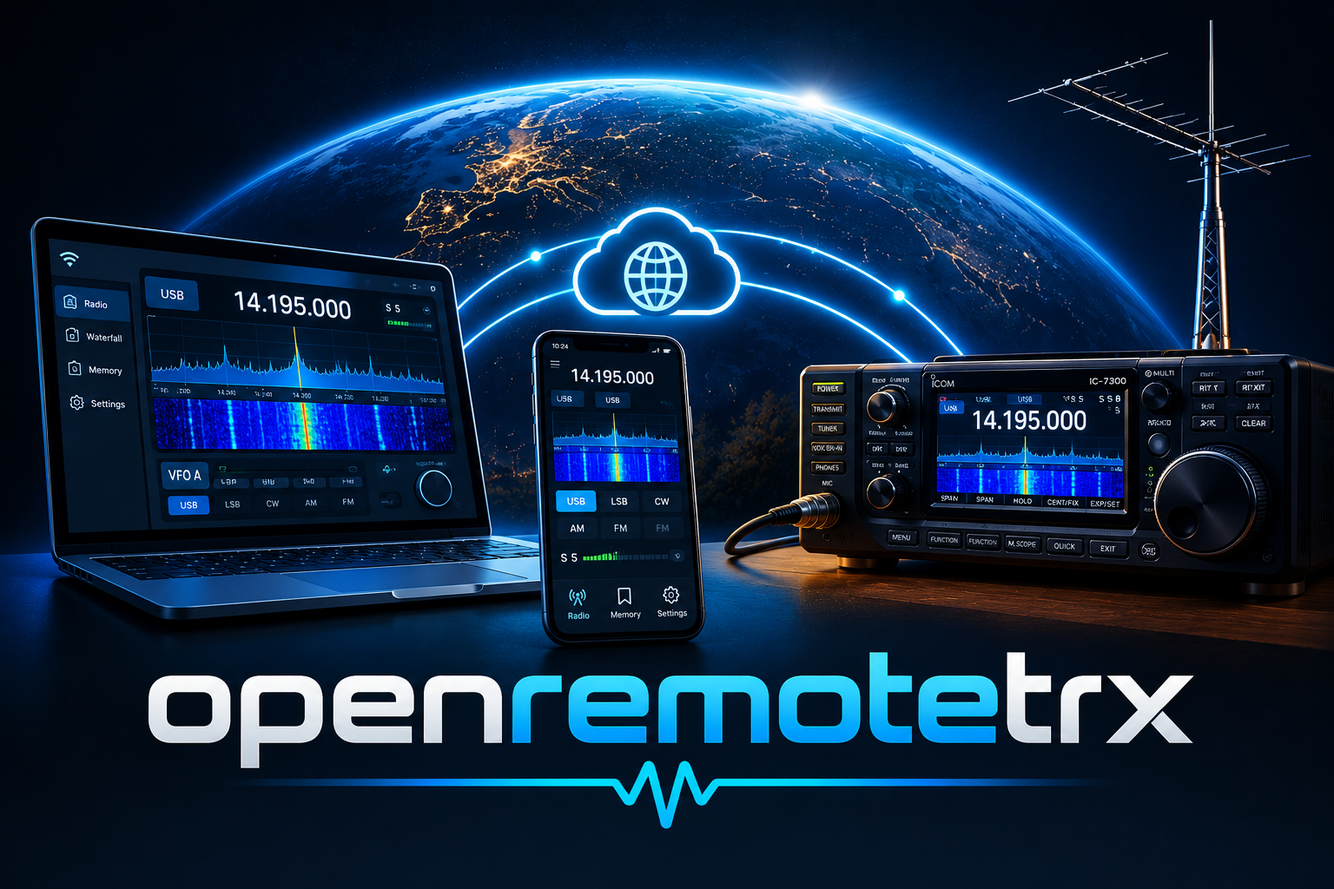
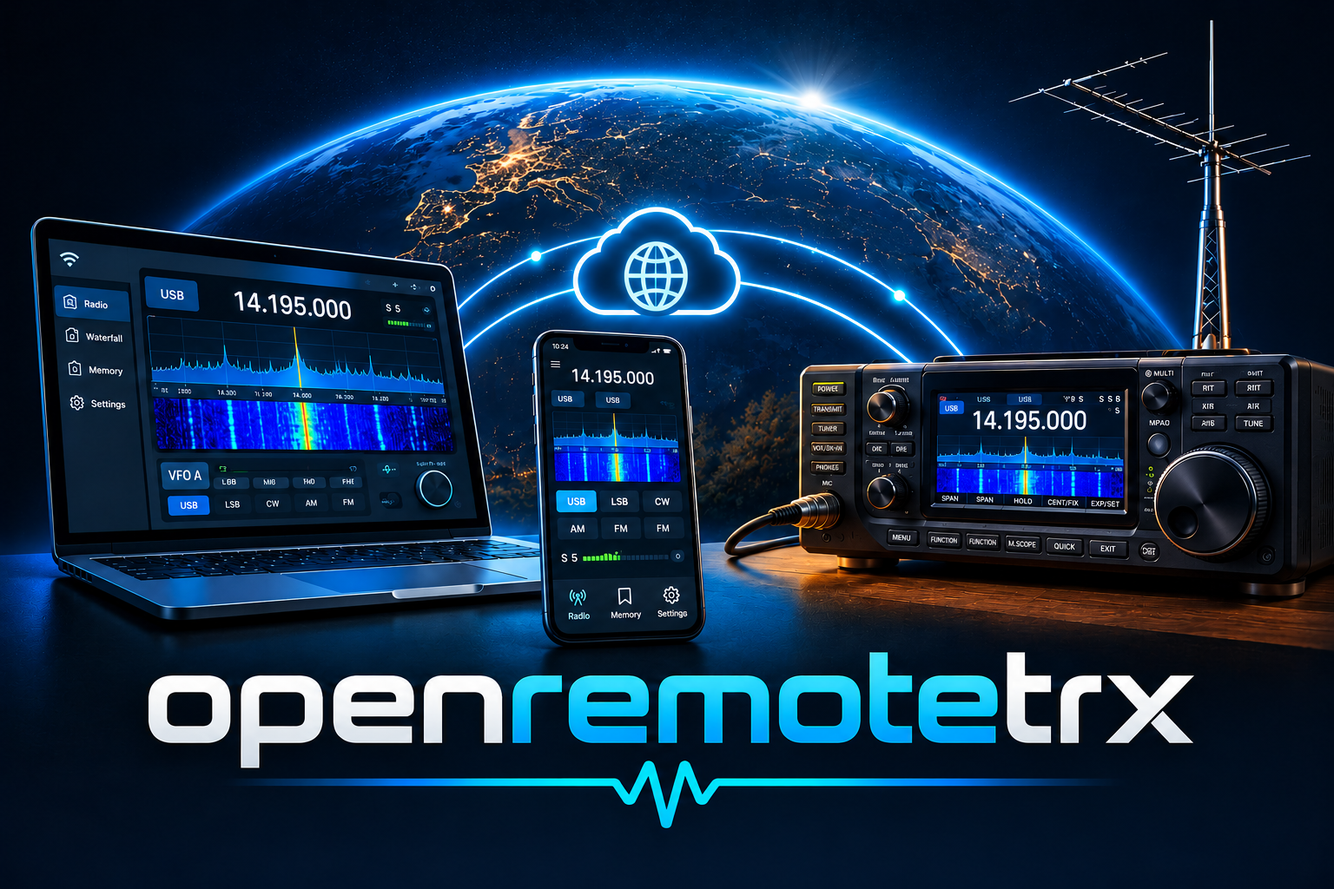
Station 0.88.0 et application 0.37.0 : image d'accueil sans marque fournie par l'utilisateur, page et ouverture de l'application (étape 106)

diff --git a/docs/site/console/0.88.0/index.html b/docs/site/console/0.88.0/index.html
@@ -1,0 +1,167 @@
+<!doctype html>
+<!-- SPDX-License-Identifier: AGPL-3.0-or-later -->
+<!-- Copyright (C) 2026 RF-DIY.COM -->
+<!-- Fabriqué par scripts/build_console_doc.py à partir de docs/console/contenu.toml : ne pas modifier à la main. -->
+<html lang="fr">
+<head>
+<meta charset="utf-8">
+<meta name="viewport" content="width=device-width, initial-scale=1">
+<title>TRX Console : mode d&#x27;emploi (0.88.0)</title>
+<style>:root{--fond:#0f141c;--carte:#171e29;--ligne:#2a3445;--texte:#dbe3ee;--doux:#9aa8bb;--accent:#4c9be8;--emission:#e0524a;
+  --ok:#3fae72;--code:#0b1017;color-scheme:dark}
+*{box-sizing:border-box}
+html{background:var(--fond)}
+body{margin:0;background:var(--fond);color:var(--texte);font:16px/1.6 system-ui,-apple-system,"Segoe UI",Roboto,sans-serif}
+main{max-width:56rem;margin:0 auto;padding:1.2rem 16px 2.5rem}
+h1{font-size:1.7rem;line-height:1.2;margin:.4rem 0 .2rem}
+h2{font-size:1.3rem;margin:2.2rem 0 .7rem;padding-bottom:.3rem;border-bottom:1px solid var(--ligne)}
+h3{font-size:1.05rem;margin:0}
+p{margin:.45rem 0 .8rem}
+a{color:var(--accent)}
+code{background:var(--code);border:1px solid var(--ligne);border-radius:.3rem;padding:0 .3rem;font-size:.92em;
+  overflow-wrap:anywhere}
+pre{background:var(--code);border:1px solid var(--ligne);border-radius:.5rem;padding:.6rem .8rem;overflow-x:auto;
+  font-size:.9rem;white-space:pre-wrap;overflow-wrap:anywhere}
+ul,ol{margin:.3rem 0 .9rem 1.3rem;padding:0}
+li{margin:.2rem 0}
+.version{color:var(--doux);font-size:.95rem;margin:0 0 1rem}
+.lecture{background:var(--carte);border:1px solid var(--ligne);border-left:.3rem solid var(--accent);border-radius:.5rem;
+  padding:.5rem 1rem;margin:1rem 0}
+.sommaire{display:flex;flex-wrap:wrap;gap:.5rem;margin:1rem 0 0;padding:0;list-style:none}
+.sommaire a{display:inline-block;background:var(--carte);border:1px solid var(--ligne);border-radius:2rem;
+  padding:.25rem .9rem;text-decoration:none;color:var(--texte)}
+.etapes{list-style:none;margin:0;padding:0;counter-reset:e}
+.etapes>li{counter-increment:e;display:grid;grid-template-columns:2.2rem 1fr;gap:.8rem;background:var(--carte);
+  border:1px solid var(--ligne);border-radius:.6rem;padding:.8rem 1rem;margin:.7rem 0}
+.etapes>li::before{content:counter(e);width:2rem;height:2rem;border-radius:50%;background:var(--accent);color:#fff;
+  font-weight:700;display:flex;align-items:center;justify-content:center}
+.etapes>li>div{min-width:0}
+details{background:var(--carte);border:1px solid var(--ligne);border-radius:.6rem;margin:.55rem 0}
+summary{cursor:pointer;padding:.65rem 1rem;display:flex;gap:.7rem;align-items:baseline;list-style:none}
+summary::-webkit-details-marker{display:none}
+summary::before{content:"\25B8";color:var(--doux);transition:transform .15s}
+details[open]>summary::before{transform:rotate(90deg)}
+.num{flex:none;min-width:2.1rem;text-align:center;font-weight:700;color:#fff;background:var(--accent);border-radius:.4rem;
+  padding:0 .3rem}
+.corps{padding:0 1rem .8rem 1rem}
+dl{display:grid;grid-template-columns:minmax(7rem,max-content) 1fr;gap:.35rem 1rem;margin:.2rem 0 .6rem}
+dt{color:var(--doux)}
+dd{margin:0;min-width:0}
+.sudo{color:var(--emission);font-weight:600}
+.libre{color:var(--ok);font-weight:600}
+.expert{border-top:1px dashed var(--ligne);margin-top:.5rem;padding-top:.4rem}
+.expert::before{content:"Pour aller plus loin";display:block;color:var(--doux);font-size:.85rem;text-transform:uppercase;
+  letter-spacing:.04em}
+.bloc{background:var(--carte);border:1px solid var(--ligne);border-radius:.6rem;padding:.6rem 1rem;margin:.7rem 0}
+footer{margin-top:2.5rem;color:var(--doux);font-size:.9rem;border-top:1px solid var(--ligne);padding-top:.8rem}
+@media (max-width:30rem){dl{grid-template-columns:1fr}dt{margin-top:.3rem}}</style>
+</head>
+<body>
+<main>
+<h1>TRX Console : mode d&#x27;emploi</h1>
+<p class="version">TRX distant version 0.88.0</p>
+<p><strong>TRX Console</strong> est le tableau de commande de la station TRX distant, sur le PC (ou le Raspberry Pi)
+relié au poste. Elle sert à installer et configurer la station, la démarrer, l'essayer, la mettre à jour et la
+dépanner. Elle s'ouvre depuis le menu des applications (« TRX Console ») ou en tapant <code>trx-console</code>
+dans un terminal.</p>
+<p><strong>Un doute sur un menu ?</strong> Tape <code>h</code> puis son numéro (ou directement <code>h 19</code>) :
+la console affiche, sans rien lancer, à quoi sert ce menu, quand s'en servir et ce qu'il modifie (les textes de cette page).</p>
+<p>Elle n'émet jamais d'elle-même : les seuls menus qui peuvent faire passer le poste en émission sont l'essai
+complet (menu 4, avec confirmation à chaque étape) et, bien sûr, la station une fois démarrée, pilotée depuis la page web.</p>
+<div class="lecture"><p><strong>Premier déploiement ?</strong> Suis le parcours ci-dessous dans l'ordre. <strong>Station déjà en
+service ?</strong> Va directement à la référence des menus. <strong>Tu aides à déboguer ?</strong> Voir la partie
+« Dépannage avancé ».</p></div>
+<ul class="sommaire"><li><a href="#premier-deploiement">Premier déploiement</a></li><li><a href="#menus">Les menus</a></li><li><a href="#depannage">Dépannage avancé</a></li></ul>
+<h2 id="premier-deploiement">Premier déploiement, pas à pas</h2>
+<ol class="etapes">
+<li><div><h3>Installer le logiciel</h3><p>Sur un PC Debian 12 ou 13 avec bureau : décompresse le paquet <code>trx-remote-debian-X.Y.Z.zip</code> dans
+Téléchargements, ouvre un terminal dans le dossier obtenu et tape :</p>
+<pre>sudo bash install.sh</pre>
+<p>Ton mot de passe de session est demandé (rien ne s'affiche pendant la frappe : c'est normal). À la fin,
+<strong>déconnecte-toi puis reconnecte-toi</strong> pour que les droits soient pris en compte.</p>
+<p>Tu viens d'une station Windows ? Pose son fichier <code>station.toml</code> à côté de <code>install.sh</code>
+avant de lancer l'installation : comptes, bandes et alertes seront repris.</p></div></li>
+<li><div><h3>Configurer la station (menu 2)</h3><p>Au premier lancement, TRX Console propose l'assistant. Il demande, dans l'ordre : le modèle du poste (liste
+Hamlib), le port série du CAT, la méthode de PTT, les cartes son (réception et émission), les bandes autorisées
+à l'émission, l'accès réseau et le premier compte (identifiant et mot de passe pour la page web).</p>
+<p>Le poste est interrogé <strong>en lecture seule</strong> pendant l'assistant : aucune émission. Rien n'est
+enregistré si tu abandonnes en cours de route.</p></div></li>
+<li><div><h3>Vérifier (menu 1)</h3><p>Le diagnostic passe tout en revue sans rien modifier. Chaque ligne est <strong>OK</strong>, à
+<strong>surveiller</strong> ou en <strong>échec</strong>, avec la marche à suivre. Corrige les échecs avant
+d'aller plus loin (menu 14 pour retoucher la configuration, ou relance l'assistant).</p></div></li>
+<li><div><h3>Essayer le poste (menu 4)</h3><p>Avant tout, la carte son du poste ne doit <strong>pas</strong> être le son par défaut du PC : sous Debian,
+<em>Paramètres &gt; Son</em>, choisis en sortie les haut-parleurs du PC et en entrée son micro (sous Windows,
+<em>Paramètres &gt; Système &gt; Son</em>). Sinon le bureau occupe la carte et ses sons partent vers le poste.</p>
+<p>Commence par l'essai <strong>en réception seule</strong> (choix 1) : liaison CAT, son reçu, changement de
+fréquence et de mode, largeurs de filtre, spectre. Ensuite seulement, l'essai <strong>complet</strong> (choix 2)
+vérifie l'émission : <strong>charge fictive obligatoire</strong>, puissance réduite, confirmation demandée à
+chaque étape. La station est arrêtée pendant l'essai.</p></div></li>
+<li><div><h3>Démarrer (menu 5) et se connecter</h3><p>Le menu 5 démarre la station ; refais un diagnostic (menu 1) quelques secondes plus tard. Sur le téléphone
+ou un autre PC du même réseau, ouvre <code>https://&lt;adresse-de-la-station&gt;:8443</code> et connecte-toi avec
+le compte créé par l'assistant. Pour l'accès depuis l'extérieur, voir la documentation « Accès distant » du projet.</p></div></li>
+</ol>
+<h2 id="menus">Les menus de la console</h2>
+<p>Tape le numéro du menu puis Entrée ; <code>q</code> pour quitter. Les réponses aux questions (oui, non, OUI, EMETTRE...) ne tiennent compte ni des majuscules ni des accents. <span class="sudo">Mot de passe</span> : le menu demande ton mot de passe de session (sudo).</p>
+<details id="menu-1"><summary><span class="num">1</span><h3>Diagnostic complet</h3></summary><div class="corps"><dl><dt>À quoi il sert</dt><dd>Contrôle complet de la station, en lecture seule : système, logiciels, configuration, matériel (ports série, cartes son), services, spectre HF, Cluster DX, accès réseau et mises à jour.</dd><dt>Quand</dt><dd>Après l'installation, après chaque changement, et en premier réflexe dès que quelque chose ne va pas.</dd><dt>Ce qu'il modifie</dt><dd>Rien. Aucune commande au poste, aucune émission.</dd><dt>Droits</dt><dd><span class="libre">non</span></dd></dl><div class="expert"><p>Même résultat sans le menu : <code>trx-console --diagnostic</code> (code de sortie différent de 0 en cas d'échec, utilisable dans un script).</p></div></div></details>
+<details id="menu-2"><summary><span class="num">2</span><h3>Assistant de configuration</h3></summary><div class="corps"><dl><dt>À quoi il sert</dt><dd>Assistant de configuration : poste, ports, PTT, cartes son, bandes autorisées, accès réseau, comptes. Écrit <code>station.toml</code>.</dd><dt>Quand</dt><dd>Au premier déploiement, ou pour tout reprendre (changement de poste, d'interface audio, de PC).</dd><dt>Ce qu'il modifie</dt><dd><code>station.toml</code> (seulement si tu vas au bout). La station est arrêtée pendant l'assistant puis redémarrée à la demande.</dd><dt>Droits</dt><dd><span class="sudo">mot de passe de session demandé</span></dd></dl><div class="expert"><p>Le poste n'est interrogé qu'en lecture. Une configuration importée d'une ancienne station (<code>station.import.toml</code>) sert de point de départ.</p></div></div></details>
+<details id="menu-3"><summary><span class="num">3</span><h3>Tableau de bord (fréquence, émission, services)</h3></summary><div class="corps"><dl><dt>À quoi il sert</dt><dd>Tableau de bord en direct, dans le terminal : fréquence, mode, émission ou réception, clients connectés, services, matériel, audio, journal.</dd><dt>Quand</dt><dd>Pour surveiller la station sur place, ou pendant un essai.</dd><dt>Ce qu'il modifie</dt><dd>Rien, sauf une touche : <strong>STOP TX</strong> force la réception. Le tableau de bord ne peut jamais faire émettre.</dd><dt>Droits</dt><dd><span class="libre">non</span></dd></dl></div></details>
+<details id="menu-4"><summary><span class="num">4</span><h3>Essai du poste (CAT, audio, PTT)</h3></summary><div class="corps"><dl><dt>À quoi il sert</dt><dd>Essai guidé du vrai poste. Choix 1 : réception seule (CAT, son reçu, accord, largeurs de filtre, écran du spectre). Choix 2 : la même chose puis l'émission.</dd><dt>Quand</dt><dd>Après l'assistant, après un changement de câble ou d'interface audio, ou pour qualifier un nouveau poste.</dd><dt>Ce qu'il modifie</dt><dd>Rien dans la configuration. Le choix 2 fait émettre le poste : charge fictive, puissance réduite, confirmation (taper <code>EMETTRE</code>) à chaque étape. La station est arrêtée pendant l'essai.</dd><dt>Droits</dt><dd><span class="sudo">mot de passe de session demandé</span></dd></dl><div class="expert"><p>Le résumé final de l'essai s'affiche à l'écran : copie-le dans ta demande d'aide. Les réponses tapées ne tiennent compte ni des majuscules ni des accents (« emettre », « Émettre » et « EMETTRE » sont acceptés).</p></div></div></details>
+<details id="menu-5"><summary><span class="num">5</span><h3>Démarrer ou redémarrer la station</h3></summary><div class="corps"><dl><dt>À quoi il sert</dt><dd>Démarre (ou redémarre) la station : rigctld, passerelle, superviseur.</dd><dt>Quand</dt><dd>Après la configuration, après une modification, ou si la page web ne répond plus.</dd><dt>Ce qu'il modifie</dt><dd>L'état des services. Le poste est toujours remis en réception au démarrage.</dd><dt>Droits</dt><dd><span class="sudo">mot de passe de session demandé</span></dd></dl></div></details>
+<details id="menu-6"><summary><span class="num">6</span><h3>Arrêter la station</h3></summary><div class="corps"><dl><dt>À quoi il sert</dt><dd>Arrête la station.</dd><dt>Quand</dt><dd>Avant de brancher ou débrancher le poste ou l'interface audio, ou pour utiliser un autre logiciel sur le poste.</dd><dt>Ce qu'il modifie</dt><dd>L'état des services. Le poste reste en réception.</dd><dt>Droits</dt><dd><span class="sudo">mot de passe de session demandé</span></dd></dl></div></details>
+<details id="menu-7"><summary><span class="num">7</span><h3>Journal de la station</h3></summary><div class="corps"><dl><dt>À quoi il sert</dt><dd>Affiche les 80 dernières lignes du journal des services de la station.</dd><dt>Quand</dt><dd>Quand le diagnostic signale un service en échec, ou pour comprendre une coupure d'émission.</dd><dt>Ce qu'il modifie</dt><dd>Rien.</dd><dt>Droits</dt><dd><span class="sudo">mot de passe de session demandé</span></dd></dl><div class="expert"><p>Journal complet : <code>journalctl -u trx-gateway -u trx-supervisor -u rigctld --since "1 hour ago"</code>.</p></div></div></details>
+<details id="menu-8"><summary><span class="num">8</span><h3>Rapport de dépannage (zip sur le Bureau)</h3></summary><div class="corps"><dl><dt>À quoi il sert</dt><dd>Crée un rapport de dépannage (fichier zip sur le Bureau) : diagnostic, journaux, configuration <strong>sans aucun mot de passe</strong>, versions, matériel détecté, rapports envoyés depuis la page, identifiant de la station.</dd><dt>Quand</dt><dd>Pour demander de l'aide : joins ce zip à ta demande.</dd><dt>Ce qu'il modifie</dt><dd>Rien (un fichier est créé sur le Bureau).</dd><dt>Droits</dt><dd><span class="libre">non</span></dd></dl><div class="expert"><p>Sans le menu : <code>trx-console --rapport</code>. Le fichier <code>station.toml</code> du rapport a ses secrets masqués ; vérifie quand même son contenu avant de l'envoyer si tu le souhaites.</p></div></div></details>
+<details id="menu-9"><summary><span class="num">9</span><h3>Sortir du mode sûr</h3></summary><div class="corps"><dl><dt>À quoi il sert</dt><dd>Sort du <strong>mode sûr</strong>. Le superviseur y place la station après des pannes répétées : poste en réception, accès coupé.</dd><dt>Quand</dt><dd>Seulement après avoir trouvé et corrigé la cause (menus 1 et 7).</dd><dt>Ce qu'il modifie</dt><dd>Efface le mode sûr mémorisé et redémarre la station.</dd><dt>Droits</dt><dd><span class="sudo">mot de passe de session demandé</span></dd></dl><div class="expert"><p>Le mode sûr survit aux redémarrages et aux corrections : il faut le lever explicitement ici.</p></div></div></details>
+<details id="menu-10"><summary><span class="num">10</span><h3>Mise à jour de TRX distant</h3></summary><div class="corps"><dl><dt>À quoi il sert</dt><dd>Mise à jour par Internet : présente la nouvelle version, propose de voir la nature des changements (notes de CHAQUE version publiée depuis la tienne, la plus récente d'abord, par pages : Entrée = suite, q = arrêter là), puis l'installe après vérification de sa signature. À jour : propose une nouvelle recherche immédiate sur GitHub.</dd><dt>Quand</dt><dd>Quand un cadre « NOUVELLE VERSION … DISPONIBLE » apparaît en haut de la console (jaune dans un terminal) et que le menu 10 est marqué « <== NOUVELLE VERSION ». La recherche a lieu 2 minutes après le démarrage de la station puis toutes les 24 h.</dd><dt>Ce qu'il modifie</dt><dd>Installe la nouvelle version à côté de l'ancienne (gardée pour le menu 11). <code>station.toml</code> et les certificats sont conservés. Refusé tant que le poste émet. Il faut taper le numéro de version pour confirmer.</dd><dt>Droits</dt><dd><span class="sudo">mot de passe de session demandé</span></dd></dl></div></details>
+<details id="menu-11"><summary><span class="num">11</span><h3>Revenir à la version précédente</h3></summary><div class="corps"><dl><dt>À quoi il sert</dt><dd>Revient à la version précédente, gardée lors de la dernière mise à jour, sans Internet.</dd><dt>Quand</dt><dd>Si la nouvelle version pose problème.</dd><dt>Ce qu'il modifie</dt><dd>La version active. La configuration est conservée.</dd><dt>Droits</dt><dd><span class="sudo">mot de passe de session demandé</span></dd></dl></div></details>
+<details id="menu-12"><summary><span class="num">12</span><h3>Cluster DX (spots suivis, sources, test)</h3></summary><div class="corps"><dl><dt>À quoi il sert</dt><dd>Réglages du Cluster DX : spots suivis, sources (RBN, serveurs telnet, web), filtres, essai des sources.</dd><dt>Quand</dt><dd>Pour afficher les spots sur le spectre et les pastilles des boutons de bande dans la page.</dd><dt>Ce qu'il modifie</dt><dd>La section Cluster de <code>station.toml</code> ; redémarrage proposé ensuite.</dd><dt>Droits</dt><dd><span class="sudo">mot de passe de session demandé</span></dd></dl></div></details>
+<details id="menu-13"><summary><span class="num">13</span><h3>Installer une version depuis un fichier zip (Bureau, Téléchargements)</h3></summary><div class="corps"><dl><dt>À quoi il sert</dt><dd>Installe une version à partir d'un fichier <code>trx-remote-debian-X.Y.Z.zip</code> déposé sur le Bureau, dans Téléchargements ou dans le dossier personnel.</dd><dt>Quand</dt><dd>Station sans Internet, version d'essai, ou retour à une version précise.</dd><dt>Ce qu'il modifie</dt><dd>Comme le menu 10 : nouvelle version à côté de l'ancienne, configuration conservée. Un paquet non signé demande de taper <code>OUI</code> puis le numéro de version.</dd><dt>Droits</dt><dd><span class="sudo">mot de passe de session demandé</span></dd></dl><div class="expert"><p>Déposer le zip ne suffit pas : il faut l'installer ici. Compte-rendu : <code>/var/log/trx-remote-install.log</code>.</p></div></div></details>
+<details id="menu-14"><summary><span class="num">14</span><h3>Modifier la configuration (station.toml)</h3></summary><div class="corps"><dl><dt>À quoi il sert</dt><dd>Modifie <code>station.toml</code> dans l'éditeur nano, sur une copie.</dd><dt>Quand</dt><dd>Pour un réglage précis sans relancer tout l'assistant.</dd><dt>Ce qu'il modifie</dt><dd><code>station.toml</code>, seulement si la copie est valide : elle est vérifiée, les différences sont montrées, une confirmation est demandée et l'ancienne version est gardée à côté. Une configuration invalide n'est jamais écrite.</dd><dt>Droits</dt><dd><span class="sudo">mot de passe de session demandé</span></dd></dl><div class="expert"><p>Dans nano : Ctrl+O puis Entrée pour enregistrer, Ctrl+X pour quitter. Les copies de sauvegarde s'appellent <code>station.toml.avant-modification-AAAAMMJJ-HHMMSS</code>.</p></div></div></details>
+<details id="menu-15"><summary><span class="num">15</span><h3>Menu expert (tests automatiques du logiciel)</h3></summary><div class="corps"><dl><dt>À quoi il sert</dt><dd>Menu expert : lance toute la suite de tests automatiques du logiciel sur la station.</dd><dt>Quand</dt><dd>Pour aider au débogage, ou vérifier qu'une installation est saine.</dd><dt>Ce qu'il modifie</dt><dd>Rien. Les tests utilisent un poste <strong>simulé</strong> : aucune commande au vrai poste, aucune émission. La station est arrêtée pendant les tests (7 à 10 minutes sur un PC récent, 30 minutes ou plus sur un petit PC) puis relancée à la demande.</dd><dt>Droits</dt><dd><span class="sudo">mot de passe de session demandé</span></dd></dl><div class="expert"><p>Le résultat est enregistré sur le Bureau (<code>trx-remote-tests-AAAAMMJJ-HHMM.txt</code>) : transmets ce fichier si des tests échouent. L'outil de test (pytest) est installé au premier usage (Internet nécessaire).</p><p>Les points s'affichent au fur et à mesure ; sans rien de nouveau pendant une minute, la console rappelle que les tests continuent. Un test vraiment bloqué 10 minutes affiche la pile de ses fils d'exécution : c'est ce qu'il faut transmettre (Ctrl+C arrête les tests).</p></div></div></details>
+<details id="menu-16"><summary><span class="num">16</span><h3>Seuils de température du poste (avertissement, coupure)</h3></summary><div class="corps"><dl><dt>À quoi il sert</dt><dd>Seuils de température du poste : premier seuil (avertissement dans la page et notification), second seuil (émission à distance coupée et refusée jusqu'au retour sous le premier seuil). 40 et 50 °C par défaut.</dd><dt>Quand</dt><dd>Si ton poste chauffe en usage normal (modes numériques en continu, par exemple) ou pour plus de prudence.</dd><dt>Ce qu'il modifie</dt><dd>Les clés <code>rig_temp_warn_c</code> et <code>rig_temp_cut_c</code> de <code>station.toml</code>, par le même chemin vérifié que le menu 14.</dd><dt>Droits</dt><dd><span class="sudo">mot de passe de session demandé</span></dd></dl><div class="expert"><p>Sans effet si le poste ne donne pas sa température par Hamlib (cas de l'IC-7300MK2). L'opérateur au micro du poste n'est jamais coupé pour ce motif.</p></div></div></details>
+<details id="menu-17"><summary><span class="num">17</span><h3>Indicateur dans la barre du haut (GNOME : état de la station en permanence)</h3></summary><div class="corps"><dl><dt>À quoi il sert</dt><dd>Active ou désactive l'<strong>indicateur de la barre du haut</strong> (bureau GNOME) : un voyant à gauche du son (vert réception, rouge émission, orange alerte, gris station arrêtée, violet mode sûr), la fréquence ou le compte à rebours d'émission, et au clic l'état complet : émission, fréquence et filtre, clients web connectés, liaison avec le poste, opérateur sur place, dernière coupure, température, alimentation, spectre HF, Cluster DX, mise à jour disponible, version et identifiant.</dd><dt>Quand</dt><dd>Une fois, après l'installation (puis une déconnexion et reconnexion), pour garder un œil sur la station en permanence.</dd><dt>Ce qu'il modifie</dt><dd>Seulement l'affichage de ton bureau. L'indicateur ne fait que LIRE l'état publié par la station : il ne peut rien commander.</dd><dt>Droits</dt><dd><span class="libre">non</span></dd></dl><div class="expert"><p>Fichiers lus chaque seconde : <code>/run/trx-remote/gateway-status.json</code>, et dans <code>/var/lib/trx-remote/</code> : <code>safe_mode</code>, <code>cluster/status.json</code>, <code>update/latest.json</code>, <code>station-id</code>. Extension installée dans <code>/usr/share/gnome-shell/extensions/trx-distant@rf-diy.com</code>. Le menu de l'indicateur ouvre aussi la page web, TRX Console et le tableau de bord.</p></div></div></details>
+<details id="menu-18"><summary><span class="num">18</span><h3>Profils de poste (plusieurs TRX : enregistrer, charger, supprimer)</h3></summary><div class="corps"><dl><dt>À quoi il sert</dt><dd>Profils de poste, pour qui pilote plusieurs TRX tour à tour : <strong>enregistrer</strong> la configuration du poste en service sous un nom (« IC-7300 maison »), la <strong>recharger</strong> plus tard, ou supprimer un profil. Le profil en service est signalé dans la liste.</dd><dt>Quand</dt><dd>Après avoir configuré et essayé un poste (menus 2 et 4) : enregistre-le. Pour changer de poste : branche-le, charge son profil, la station redémarre avec lui.</dd><dt>Ce qu'il modifie</dt><dd>Charger un profil ne change que les réglages du POSTE dans <code>station.toml</code> (modèle, ports, PTT, cartes son, spectre), par le même chemin vérifié que le menu 14 (différences montrées, confirmation, ancienne version gardée). Comptes, réseau, bandes autorisées et sécurités ne bougent jamais. Refusé pendant une émission.</dd><dt>Droits</dt><dd><span class="sudo">mot de passe de session demandé</span></dd></dl><div class="expert"><p>Fichiers : <code>/etc/trx-remote/profils/&lt;nom&gt;.toml</code>. Chaque profil porte un numéro de format. Un profil d'une ancienne version est converti au chargement quand c'est possible (une clé manquante prend sa valeur par défaut) ; sinon, ou s'il vient d'une version plus récente, il est refusé avec la marche à suivre : refaire la configuration de ce poste (menu 2) puis l'enregistrer de nouveau. Le fichier d'origine n'est jamais modifié au chargement.</p></div></div></details>
+<details id="menu-19"><summary><span class="num">19</span><h3>Appairer un téléphone (application Android : adresse, empreinte, QR code)</h3></summary><div class="corps"><dl><dt>À quoi il sert</dt><dd>Affiche ce qu'il faut pour <strong>appairer l'application Android</strong> avec cette station : l'adresse à saisir, les comptes autorisés, l'<strong>empreinte du certificat</strong> (SHA-256, sur deux lignes), puis un <strong>QR code</strong> à scanner avec l'application (« Scanner le QR code de la station ») : il remplit l'adresse, l'identifiant et l'empreinte. S'il y a plusieurs adresses ou plusieurs comptes, la console demande lesquels mettre dans le QR code (Entrée = choix proposé). Ni le QR code ni l'écran ne contiennent de mot de passe : la station ne les connaît pas en clair, il se saisit dans l'application.</dd><dt>Quand</dt><dd>Au moment d'ajouter la station dans l'application Android, et après avoir refait le certificat (menu 2).</dd><dt>Ce qu'il modifie</dt><dd>Rien : lecture seule.</dd><dt>Droits</dt><dd><span class="libre">non</span></dd></dl><div class="expert"><p>Même affichage en ligne de commande : <code>trx-setup --output /etc/trx-remote/station.toml --empreinte</code>. Si le certificat n'est lisible que par la station, la console le relit avec les droits d'administration. Station limitée à cette machine (boucle locale) : aucun téléphone ne peut s'y connecter, la console le dit. Derrière un proxy HTTPS, l'empreinte à épingler est celle du certificat du proxy (pas de QR code). Le QR code est dessiné pour un terminal à fond sombre ; l'application lit aussi un terminal clair. S'il n'apparaît pas (paquet « segno » absent), réinstaller la station (menu 13) ou saisir l'empreinte à la main.</p></div></div></details>
+<details id="menu-20"><summary><span class="num">20</span><h3>Visiteurs en réception seule (comptes, nombre maximal, connectés)</h3></summary><div class="corps"><dl><dt>À quoi il sert</dt><dd>Gère les <strong>visiteurs en réception seule</strong> : des comptes qui écoutent la station et voient l'écran de l'opérateur, sans <strong>aucune</strong> commande vers le poste (ni fréquence, ni mode, ni émission, ni STOP). On y règle le <strong>nombre maximal</strong> de visiteurs (0 = écoute fermée sur la station ; sinon, c'est l'opérateur qui ouvre ou ferme l'écoute depuis sa page ou l'application, commutateur « Écoute des visiteurs », fermé par défaut), le commutateur <strong>« opérateur requis »</strong> (visiteurs admis seulement si un opérateur est connecté, et déconnectés après une attente réglable, 60 s par défaut, s'il perd la liaison), l'écoute <strong>hors des bandes</strong> de la station (coupée par défaut : silence) et la cadence du spectre HF des visiteurs (5 images par seconde par défaut). On y crée, modifie (pseudo, mot de passe, activé, date de fin) et supprime les comptes visiteurs, on choisit le <strong>pseudo</strong> des comptes opérateurs, on <strong>déconnecte</strong> un visiteur connecté, et on <strong>rouvre l'écoute</strong> suspendue par une surcharge.</dd><dt>Quand</dt><dd>Avant une démonstration en radio-club, une formation ou l'écoute partagée d'un QSO ; pour retirer l'accès à un visiteur (désactiver ou supprimer son compte).</dd><dt>Ce qu'il modifie</dt><dd>Les comptes et la section <code>[access]</code> de <code>station.toml</code>, par le même chemin vérifié que le menu 14 (différences montrées, confirmation, ancienne version gardée ; le fichier est réécrit dans sa forme standard). La station les relit d'elle-même en quelques secondes, <strong>sans redémarrer</strong> : un compte désactivé, expiré ou supprimé est déconnecté aussitôt. « Déconnecter » ne touche pas à <code>station.toml</code>.</dd><dt>Droits</dt><dd><span class="sudo">mot de passe de session demandé</span></dd></dl><div class="expert"><p>Les autres connectés ne voient jamais l'identifiant d'un compte, seulement son <strong>pseudo</strong> (plusieurs comptes peuvent porter le même) ; seul un opérateur voit identifiants et adresses. Pendant une émission, les visiteurs entendent la voix de l'opérateur (ce qui part vers le poste) ; le code SELCALL ne leur est jamais montré. Un visiteur ne peut envoyer que deux commandes (relire l'état, afficher ou non le spectre HF) : tout le reste est refusé par la station, et au-delà de 20 refus en une minute sa connexion est fermée avec une alerte. Les visiteurs ont leur propre quota : ils ne prennent jamais la place d'un opérateur. Si la station souffre (processeur à 85 °C, chargé à 90 %, passerelle en retard de plus de 100 ms ou mémoire presque pleine, pendant 10 s), les visiteurs sont déconnectés avec la cause précise ; l'écoute se rouvre d'elle-même après 5 minutes nettement en dessous, ou à la main (choix 7) après 3 coupures en une heure. Seuils : <code>[access] overload_*</code> (menu 14). Retransmettre ce que l'on reçoit à des tiers engage la responsabilité de l'opérateur : voir le guide d'accès distant. Détail : <code>docs/visiteurs-cahier-des-charges.md</code>.</p></div></div></details>
+<h2 id="depannage">Dépannage avancé</h2>
+<div class="bloc" id="en-t-te-de-la-console"><h3>En-tête de la console</h3><p>La première ligne donne la <strong>version installée</strong>, la deuxième l'état (en marche, arrêtée, pas
+encore configurée). Une fois la station configurée viennent l'<strong>adresse</strong> où la joindre depuis la
+page web ou l'application (adresses IP de la machine et port ; « cette machine seulement » si elle n'écoute qu'en
+local), puis l'<strong>état du poste</strong> : tension d'alimentation et température, telles que la station les
+lit (« — » : valeur que le poste ne fournit pas ; l'IC-7300MK2, par exemple, ne donne pas sa température ;
+« mesures indisponibles » : station arrêtée). La dernière ligne donne l'<strong>identifiant de la station</strong> :
+un code unique créé au premier démarrage, qui permet de rapprocher plusieurs rapports d'une même station. Il n'est
+envoyé nulle part automatiquement.</p></div>
+<div class="bloc" id="fichiers-utiles-debian"><h3>Fichiers utiles (Debian)</h3><ul>
+<li><code>/etc/trx-remote/station.toml</code> : configuration (modifier par le menu 14).</li>
+<li><code>/var/lib/trx-remote/</code> : état de la station (mode sûr, mémoires, rapports de la page, identifiant <code>station-id</code>, Cluster DX).</li>
+<li><code>/run/trx-remote/gateway-status.json</code> : état en direct publié par la passerelle (lu par le tableau de bord).</li>
+<li><code>/opt/trx-remote/releases/</code> : versions installées côte à côte ; <code>/opt/trx-remote/current</code> pointe sur la version active.</li>
+<li><code>/var/log/trx-remote-install.log</code> : compte-rendu des installations et mises à jour.</li>
+</ul></div>
+<div class="bloc" id="relev-s-sur-le-poste-lecture-seule"><h3>Relevés sur le poste (lecture seule)</h3><p>Pour un poste Icom avec un second port CI-V (spectre), un relevé brut des réglages, sans aucune écriture,
+aide à établir le format réel des réponses. Station arrêtée (menu 6), puis :</p>
+<pre>/opt/trx-remote/current/venv/bin/python -m trxstation.devtools.civ_scope --port /dev/serial/by-id/&lt;port-B&gt; --reglages</pre>
+<p>Le résultat est enregistré dans un dossier <code>spectre-reglages-…</code> : joins-le à ta demande.</p></div>
+<div class="bloc" id="transmettre-un-probl-me"><h3>Transmettre un problème</h3><ol>
+<li>Dans la page web : section « Signaler un problème » (texte relu avant l'envoi).</li>
+<li>Sur la station : menu 8 (rapport de dépannage), et si besoin le résultat du menu 15.</li>
+<li>Décris ce que tu faisais, ce que tu attendais et ce qui s'est passé, avec l'heure approximative.</li>
+</ol></div>
+<footer>
+<p><a href="../">Dernière version</a>. Autres versions : <a href="../0.87.0/">0.87.0</a>, <a href="../0.86.0/">0.86.0</a>, <a href="../0.85.0/">0.85.0</a>, <a href="../0.84.0/">0.84.0</a>, <a href="../0.83.0/">0.83.0</a>, <a href="../0.82.0/">0.82.0</a>, <a href="../0.81.0/">0.81.0</a>, <a href="../0.80.0/">0.80.0</a>, <a href="../0.79.0/">0.79.0</a>, <a href="../0.78.0/">0.78.0</a>, <a href="../0.77.0/">0.77.0</a>, <a href="../0.76.0/">0.76.0</a>, <a href="../0.75.0/">0.75.0</a>, <a href="../0.74.0/">0.74.0</a>, <a href="../0.73.0/">0.73.0</a>, <a href="../0.72.0/">0.72.0</a>, <a href="../0.71.0/">0.71.0</a>, <a href="../0.70.0/">0.70.0</a>, <a href="../0.69.0/">0.69.0</a>, <a href="../0.68.0/">0.68.0</a>, <a href="../0.67.0/">0.67.0</a>, <a href="../0.66.0/">0.66.0</a>, <a href="../0.65.0/">0.65.0</a>, <a href="../0.64.0/">0.64.0</a>, <a href="../0.63.0/">0.63.0</a>, <a href="../0.62.0/">0.62.0</a>, <a href="../0.61.0/">0.61.0</a>, <a href="../0.60.0/">0.60.0</a>, <a href="../0.59.0/">0.59.0</a>, <a href="../0.58.0/">0.58.0</a>, <a href="../0.57.0/">0.57.0</a>, <a href="../0.56.0/">0.56.0</a>, <a href="../0.55.0/">0.55.0</a>, <a href="../0.54.0/">0.54.0</a>, <a href="../0.53.0/">0.53.0</a>, <a href="../0.52.0/">0.52.0</a>, <a href="../0.51.0/">0.51.0</a>, <a href="../0.50.0/">0.50.0</a>, <a href="../0.49.0/">0.49.0</a>, <a href="../0.48.0/">0.48.0</a>, <a href="../0.47.0/">0.47.0</a>, <a href="../0.46.0/">0.46.0</a>. Projet libre (AGPL-3.0-or-later) : <a href="https://github.com/Bob56fr/openRemoteTRX" target="_blank" rel="noopener noreferrer">code source</a> · <a href="https://www.rf-diy.com" target="_blank" rel="noopener noreferrer">rf-diy.com</a></p>
+</footer>
+</main>
+<script>(function () {
+  if (window.parent === window) return;
+  var last = 0;
+  function send() {
+    var h = Math.ceil(document.documentElement.scrollHeight);
+    if (h !== last) { last = h; window.parent.postMessage({ type: "trx-doc-height", height: h }, "*"); }
+  }
+  window.addEventListener("load", send);
+  document.addEventListener("toggle", send, true);
+  if (window.ResizeObserver) new ResizeObserver(send).observe(document.body);
+  else window.addEventListener("resize", send);
+})();</script>
+</body>
+</html>

diff --git a/docs/site/console/index.html b/docs/site/console/index.html
@@ -6,7 +6,7 @@
 <head>
 <meta charset="utf-8">
 <meta name="viewport" content="width=device-width, initial-scale=1">
-<title>TRX Console : mode d&#x27;emploi (0.87.0)</title>
+<title>TRX Console : mode d&#x27;emploi (0.88.0)</title>
 <style>:root{--fond:#0f141c;--carte:#171e29;--ligne:#2a3445;--texte:#dbe3ee;--doux:#9aa8bb;--accent:#4c9be8;--emission:#e0524a;
   --ok:#3fae72;--code:#0b1017;color-scheme:dark}
 *{box-sizing:border-box}
@@ -59,7 +59,7 @@ footer{margin-top:2.5rem;color:var(--doux);font-size:.9rem;border-top:1px solid 
 <body>
 <main>
 <h1>TRX Console : mode d&#x27;emploi</h1>
-<p class="version">TRX distant version 0.87.0</p>
+<p class="version">TRX distant version 0.88.0</p>
 <p><strong>TRX Console</strong> est le tableau de commande de la station TRX distant, sur le PC (ou le Raspberry Pi)
 relié au poste. Elle sert à installer et configurer la station, la démarrer, l'essayer, la mettre à jour et la
 dépanner. Elle s'ouvre depuis le menu des applications (« TRX Console ») ou en tapant <code>trx-console</code>
@@ -148,7 +148,7 @@ aide à établir le format réel des réponses. Station arrêtée (menu 6), puis
 <li>Décris ce que tu faisais, ce que tu attendais et ce qui s'est passé, avec l'heure approximative.</li>
 </ol></div>
 <footer>
-<p>Autres versions : <a href="0.86.0/">0.86.0</a>, <a href="0.85.0/">0.85.0</a>, <a href="0.84.0/">0.84.0</a>, <a href="0.83.0/">0.83.0</a>, <a href="0.82.0/">0.82.0</a>, <a href="0.81.0/">0.81.0</a>, <a href="0.80.0/">0.80.0</a>, <a href="0.79.0/">0.79.0</a>, <a href="0.78.0/">0.78.0</a>, <a href="0.77.0/">0.77.0</a>, <a href="0.76.0/">0.76.0</a>, <a href="0.75.0/">0.75.0</a>, <a href="0.74.0/">0.74.0</a>, <a href="0.73.0/">0.73.0</a>, <a href="0.72.0/">0.72.0</a>, <a href="0.71.0/">0.71.0</a>, <a href="0.70.0/">0.70.0</a>, <a href="0.69.0/">0.69.0</a>, <a href="0.68.0/">0.68.0</a>, <a href="0.67.0/">0.67.0</a>, <a href="0.66.0/">0.66.0</a>, <a href="0.65.0/">0.65.0</a>, <a href="0.64.0/">0.64.0</a>, <a href="0.63.0/">0.63.0</a>, <a href="0.62.0/">0.62.0</a>, <a href="0.61.0/">0.61.0</a>, <a href="0.60.0/">0.60.0</a>, <a href="0.59.0/">0.59.0</a>, <a href="0.58.0/">0.58.0</a>, <a href="0.57.0/">0.57.0</a>, <a href="0.56.0/">0.56.0</a>, <a href="0.55.0/">0.55.0</a>, <a href="0.54.0/">0.54.0</a>, <a href="0.53.0/">0.53.0</a>, <a href="0.52.0/">0.52.0</a>, <a href="0.51.0/">0.51.0</a>, <a href="0.50.0/">0.50.0</a>, <a href="0.49.0/">0.49.0</a>, <a href="0.48.0/">0.48.0</a>, <a href="0.47.0/">0.47.0</a>, <a href="0.46.0/">0.46.0</a>. Projet libre (AGPL-3.0-or-later) : <a href="https://github.com/Bob56fr/openRemoteTRX" target="_blank" rel="noopener noreferrer">code source</a> · <a href="https://www.rf-diy.com" target="_blank" rel="noopener noreferrer">rf-diy.com</a></p>
+<p>Autres versions : <a href="0.87.0/">0.87.0</a>, <a href="0.86.0/">0.86.0</a>, <a href="0.85.0/">0.85.0</a>, <a href="0.84.0/">0.84.0</a>, <a href="0.83.0/">0.83.0</a>, <a href="0.82.0/">0.82.0</a>, <a href="0.81.0/">0.81.0</a>, <a href="0.80.0/">0.80.0</a>, <a href="0.79.0/">0.79.0</a>, <a href="0.78.0/">0.78.0</a>, <a href="0.77.0/">0.77.0</a>, <a href="0.76.0/">0.76.0</a>, <a href="0.75.0/">0.75.0</a>, <a href="0.74.0/">0.74.0</a>, <a href="0.73.0/">0.73.0</a>, <a href="0.72.0/">0.72.0</a>, <a href="0.71.0/">0.71.0</a>, <a href="0.70.0/">0.70.0</a>, <a href="0.69.0/">0.69.0</a>, <a href="0.68.0/">0.68.0</a>, <a href="0.67.0/">0.67.0</a>, <a href="0.66.0/">0.66.0</a>, <a href="0.65.0/">0.65.0</a>, <a href="0.64.0/">0.64.0</a>, <a href="0.63.0/">0.63.0</a>, <a href="0.62.0/">0.62.0</a>, <a href="0.61.0/">0.61.0</a>, <a href="0.60.0/">0.60.0</a>, <a href="0.59.0/">0.59.0</a>, <a href="0.58.0/">0.58.0</a>, <a href="0.57.0/">0.57.0</a>, <a href="0.56.0/">0.56.0</a>, <a href="0.55.0/">0.55.0</a>, <a href="0.54.0/">0.54.0</a>, <a href="0.53.0/">0.53.0</a>, <a href="0.52.0/">0.52.0</a>, <a href="0.51.0/">0.51.0</a>, <a href="0.50.0/">0.50.0</a>, <a href="0.49.0/">0.49.0</a>, <a href="0.48.0/">0.48.0</a>, <a href="0.47.0/">0.47.0</a>, <a href="0.46.0/">0.46.0</a>. Projet libre (AGPL-3.0-or-later) : <a href="https://github.com/Bob56fr/openRemoteTRX" target="_blank" rel="noopener noreferrer">code source</a> · <a href="https://www.rf-diy.com" target="_blank" rel="noopener noreferrer">rf-diy.com</a></p>
 </footer>
 </main>
 <script>(function () {

diff --git a/android/app/src/main/kotlin/com/rfdiy/openremotetrx/app/MainActivity.kt b/android/app/src/main/kotlin/com/rfdiy/openremotetrx/app/MainActivity.kt
@@ -12,7 +12,24 @@ import androidx.activity.compose.rememberLauncherForActivityResult
 import androidx.activity.compose.setContent
 import androidx.activity.enableEdgeToEdge
 import androidx.activity.result.contract.ActivityResultContracts
+import androidx.compose.animation.AnimatedVisibility
+import androidx.compose.animation.fadeOut
+import androidx.compose.foundation.Image
+import androidx.compose.foundation.background
+import androidx.compose.foundation.clickable
+import androidx.compose.foundation.layout.Box
 import androidx.compose.foundation.layout.fillMaxSize
+import androidx.compose.runtime.LaunchedEffect
+import androidx.compose.runtime.mutableStateOf
+import androidx.compose.runtime.saveable.rememberSaveable
+import androidx.compose.runtime.setValue
+import androidx.compose.ui.Alignment
+import androidx.compose.ui.draw.clip
+import androidx.compose.foundation.shape.RoundedCornerShape
+import androidx.compose.ui.layout.ContentScale
+import androidx.compose.ui.res.painterResource
+import androidx.compose.ui.unit.dp
+import kotlinx.coroutines.delay
 import androidx.compose.foundation.layout.padding
 import androidx.compose.material3.MaterialTheme
 import androidx.compose.material3.Scaffold
@@ -54,8 +71,11 @@ class MainActivity : ComponentActivity() {
                 colorScheme = Page.scheme,                         // couleurs de la page web (thème par défaut)
                 typography = compactTypography(),
             ) {
-                Scaffold(modifier = Modifier.fillMaxSize()) { padding ->
-                    App(store, Modifier.padding(padding))
+                Box(Modifier.fillMaxSize()) {
+                    Scaffold(modifier = Modifier.fillMaxSize()) { padding ->
+                        App(store, Modifier.padding(padding))
+                    }
+                    Splash()
                 }
             }
         }
@@ -69,6 +89,27 @@ class MainActivity : ComponentActivity() {
         super.onStop()
         if (isChangingConfigurations) return
         RigHub.leaving(getSharedPreferences("ui", MODE_PRIVATE).getBoolean("keep_tx_background", false))
+    }
+
+    /**
+     * Image d'accueil à l'ouverture de l'application (comme la page web : `splash.webp`, 2 s, un toucher la passe) ;
+     * pas à chaque rotation de l'écran. Rien n'est bloqué derrière : la connexion se prépare pendant ce temps.
+     */
+    @Composable
+    private fun Splash() {
+        var shown by rememberSaveable { mutableStateOf(true) }
+        LaunchedEffect(Unit) { delay(2000); shown = false }
+        AnimatedVisibility(visible = shown, exit = fadeOut()) {
+            Box(
+                Modifier.fillMaxSize().background(Page.FOND_ACCUEIL).clickable { shown = false },
+                contentAlignment = Alignment.Center,
+            ) {
+                Image(
+                    painterResource(R.drawable.splash), contentDescription = "openremotetrx",
+                    contentScale = ContentScale.Fit, modifier = Modifier.padding(12.dp).clip(RoundedCornerShape(16.dp)),
+                )
+            }
+        }
     }
 
     private fun granted(permission: String) =

diff --git a/android/app/src/main/kotlin/com/rfdiy/openremotetrx/app/AppTheme.kt b/android/app/src/main/kotlin/com/rfdiy/openremotetrx/app/AppTheme.kt
@@ -11,6 +11,7 @@ import androidx.compose.ui.graphics.Color
  */
 object Page {
     val FOND = Color(0xFF04070B)            // --fond
+    val FOND_ACCUEIL = Color(0xFF06101F)    // --fond-accueil (image d'accueil)
     val PANNEAU = Color(0xFF0B1118)         // --fond-panneau
     val INSTRUMENT = Color(0xFF0E151D)      // --fond-instrument (afficheur)
     val CHAMP = Color(0xFF0F151D)           // --fond-champ

diff --git a/trxstation/__init__.py b/trxstation/__init__.py
@@ -1,4 +1,4 @@
 # SPDX-License-Identifier: AGPL-3.0-or-later
 # Copyright (C) 2026 RF-DIY.COM
 """trxstation : côté Raspberry Pi du système de pilotage à distance d'un TRX."""
-__version__ = "0.87.0"
+__version__ = "0.88.0"

diff --git a/docs/historique.md b/docs/historique.md
@@ -199,3 +199,5 @@ Côté Android (ensuite) : 9. structure + RigService + réseau ; 10. interface A
 8ck. [fait, ressources et documentation] LOGO ET IMAGES OPENREMOTETRX fournis par l'utilisateur (2026-11-02) : `docs/marque/logo-rond.png` (logo rond), `docs/marque/icone-application.png` (icône d'application), `docs/marque/banniere.png` (bannière) ; logo réduit pour le pied de l'image d'une mesure de TOS : `static/logo-96.png` (servi en `/logo-96.png`, ajouté à `WEB_FILES`) et `android/app/src/main/res/drawable-nodpi/logo_openremotetrx.png`. Cahier des charges de la mesure de TOS complété (§ 9) : bouton « Partager » (Android : feuille de partage ; page : `navigator.share` si possible) et « Enregistrer l'image… » avec choix du dossier sur Windows / Debian (`showSaveFilePicker`, sinon téléchargement). Remarque : la bannière montre la marque et le nom d'un poste du commerce (« ICOM », « IC-7300 ») : à éviter sur le Play Store et le site public (droit des marques ; la page s'interdit déjà toute marque ou logo de fabricant).
 
 8cl. [fait ; icône NON vue sur le téléphone (débranché)] APPLICATION 0.36.0 (versionCode 40, station 0.87.0 inchangée) : NOUVELLE ICÔNE (étape 105) (globe et pylône) fournie par l'utilisateur (« je vais refaire les grandes images, utilise la petite image »). Icône ADAPTATIVE (`mipmap-anydpi-v26/ic_launcher.xml` : fond `#010F2D` dans `values/ic_launcher_colors.xml`, premier plan `mipmap-*/ic_launcher_foreground.png` de 108 à 432 px, dessin centré dans la zone sûre ; aperçu sous masque rond vérifié) ; manifeste `@mipmap/ic_launcher` ; ancienne icône vectorielle `drawable/ic_launcher.xml` retirée ; pas d'icône monochrome (PNG opaque). Icône du Play Store `docs/play-store/icone-512.png` refaite plein cadre (512 px). Logo du pied de l'image des mesures de TOS refait depuis la même icône (`static/logo-96.png`, `drawable-nodpi/logo_openremotetrx.png`). Les grandes images (logo rond, bannière) seront refaites par l'utilisateur : celles de `docs/marque/` sont provisoires.
+
+8cm. [fait ; image d'accueil de l'application VUE sur le S25 (capture) ; page NON vue] STATION 0.88.0 ET APPLICATION 0.37.0 (versionCode 41) : IMAGE D'ACCUEIL SANS MARQUE (étape 106). Nouvelle bannière fournie par l'utilisateur (sans marque de fabricant) : `docs/marque/banniere.png` remplacée ; page : `static/splash.webp` refait (1 280 px, WebP qualité 82, ~126 ko ; même affichage qu'avant : 2 s, un toucher la passe). Application : même image à l'ouverture (`res/drawable-nodpi/splash.webp`, `MainActivity.Splash` : par-dessus l'écran, 2 s puis fondu, un toucher la passe, pas à chaque rotation, fond `Page.FOND_ACCUEIL` = `--fond-accueil`) ; l'écran de démarrage d'Android (icône) reste avant.

diff --git a/CLAUDE.md b/CLAUDE.md
@@ -80,7 +80,7 @@ openRemoteTRX/
 
 La passerelle est le composant critique : validée seule avant tout Kotlin. Outils de test : `tools/fake_client.py` (joue le smartphone via aiortc), `tools/audio_loopback.py` (latence aller-retour), tests pytest des scénarios de panne, test du superviseur (`kill -STOP` de la passerelle pendant un TX). Le protocole (messages CAT/PTT, descripteur de capacités, format du bus d'état) est figé et documenté côté Pi avant l'étape Android.
 
-## État actuel (station 0.87.0, application 0.36.0, étape 105)
+## État actuel (station 0.88.0, application 0.37.0, étape 106)
 
 L'historique COMPLET des étapes (décisions, formats relevés, défauts trouvés, essais) est dans `docs/historique.md` : le lire avant de toucher à un sujet ancien. Ici, l'essentiel.
 
